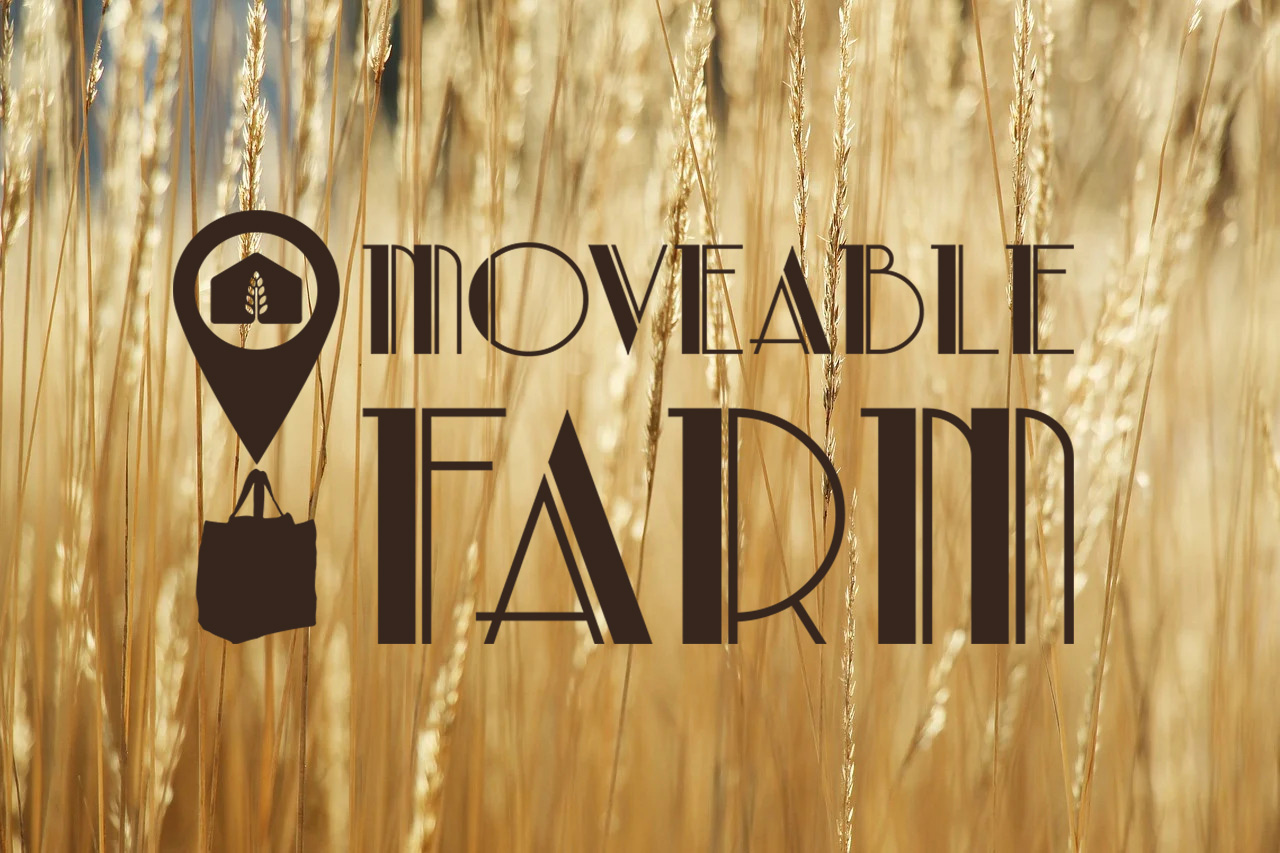
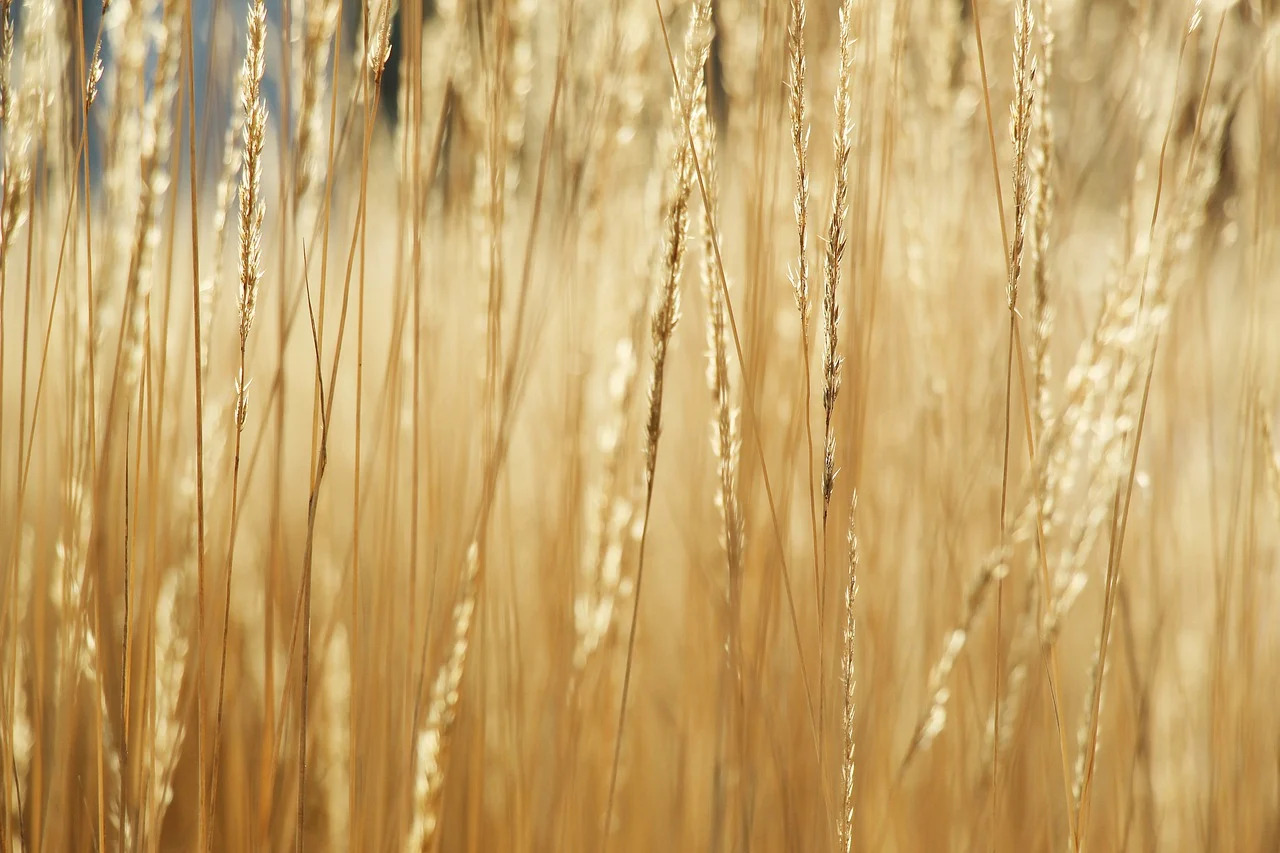
updating case studies

Changed region(s): [[0.125, 0.2438, 0.8438, 0.762], [0.375, 0.4572, 0.8438, 0.762], [0.2812, 0.4572, 0.4062, 0.762]]

diff --git a/src/routes/case-studies/moveable-farm-web-app/+page.svelte b/src/routes/case-studies/moveable-farm-web-app/+page.svelte
@@ -1,6 +1,7 @@
 <script lang="ts">
     import { PUBLIC_DOMAIN } from "$env/static/public";
     import moveableFarmWebAppBanner from "$lib/images/case_studies/moveable_farm_web_app/moveable_farm_banner.jpg";
+    import moveableFarmPrototypes from "$lib/images/case_studies/moveable_farm_web_app/moveable_farm_prototypes.png";
     import { page } from "$app/stores";
     import NextButton from "$lib/components/buttons/NextButton.svelte";
     import PreviousButton from "$lib/components/buttons/PreviousButton.svelte";
@@ -20,6 +21,9 @@
     </h1>
     <div class="case_study_banner">
         <img src={moveableFarmWebAppBanner} alt="moveable farm web app banner" />
+        <div class="moveable_farm_prototypes">
+            <img src={moveableFarmPrototypes} alt="moveable farm desktop and mobile prototypes" />    
+        </div>
         <h2 class="forthcoming">
             forthcoming!
         </h2>
@@ -27,11 +31,28 @@
     <div class="case_study_about">
         <div class="tagline_and_dates">
             <p class="tagline">
-                a web application to buy farm goods directly from farmers
+                a web platform to develop stronger and more sustainable agriculture for better cooking, eating and drinking
             </p>
             <p class="dates">
                 2025 (expected launch date)
             </p>
+            <p>
+                The web platform includes:
+            </p>
+            <ul>
+                <li>
+                    a farm-to-table web application to buy local farm goods
+                </li>
+                <li>
+                    a platform for farmers to socialize, share ideas and organize
+                </li>
+                <li>
+                    artificial intelligence tools for farmers to farm better
+                </li>
+                <li>
+                    artificial intelligence-generated shopping recommendations
+                </li>
+            </ul>
         </div>
         <table class="case_study_table">
             <colgroup>
@@ -60,7 +81,7 @@
                         tools used:
                     </td>
                     <td>
-                        SvelteKit, Twilio SendGrid, Vercel, TomTom, Figma, Canon EOS 70D Digital SLR camera, Adobe Creative Cloud
+                        SvelteKit, Twilio SendGrid, GraphQL, MySQL, Vercel, TomTom, Figma, Canon EOS 70D Digital SLR camera, Adobe Creative Cloud
                     </td>
                 </tr>
                 <tr>
@@ -70,16 +91,28 @@
                     <td>
                         <ul>
                             <li>
-                                geolocate local farmers using user's location
+                                map local farmers using user's location
                             </li>
                             <li>
-                                filter farms based on renewable energy use, sustainable farming practices, fair labor practices, type of farm goods and organic growing practices
-                            </li>
-                            <li>
-                                subscriptions for farmers to list on web app
+                                filter farms based on criteria like renewable energy use, sustainable farming practices, fair labor practices, type of farm goods and organic growing practices
                             </li>
                             <li>
                                 allow users to place orders to buy directly from farms
+                            </li>
+                            <li>
+                                provide subscription-based AI tools for farmers to farm better
+                            </li>
+                            <li>
+                                allow farmers to list farm goods for sale
+                            </li>
+                            <li>
+                                allow farms to register for free to become part of a farmer social network
+                            </li>
+                            <li>
+                                allow shoppers to create accounts to manage orders and shopping preferences
+                            </li>
+                            <li>
+                                use 3D graphics for visual effects when possible
                             </li>
                             <li>
                                 mobile, tablet and desktop
@@ -109,8 +142,16 @@
     .case_study_banner {
         width: 100%;
         max-width: 1920px;
-        padding: 1rem;
+
         position: relative;
+    }
+
+    .moveable_farm_prototypes {
+        position: absolute;
+        top: 0;
+        left: 0;
+        right: 0;
+        bottom: 0;
     }
 
     .forthcoming {

diff --git a/src/lib/components/scrollables/ScrollableCaseStudies.svelte b/src/lib/components/scrollables/ScrollableCaseStudies.svelte
@@ -15,7 +15,7 @@
             id: uuidv4(),
             index: 0,
             label: "moveable farm web app",
-            paragraph: "A web application to buy directly from local farmers.",
+            paragraph: "A web platform to develop stronger and more sustainable agriculture for better cooking, eating and drinking.",
             imageBackgroundSrc: MoveableFarmWebAppBanner,
             imageBackgroundAlt: "moveable farm banner",
             imageForegroundSrc: MoveableFarmDesktopAndMobilePrototypes,

diff --git a/src/routes/case-studies/+page.svelte b/src/routes/case-studies/+page.svelte
@@ -16,7 +16,7 @@
             id: uuidv4(),
             index: 0,
             label: "moveable farm web app",
-            paragraph: "A web application to buy directly from local farmers.",
+            paragraph: "A web platform to develop stronger and more sustainable agriculture for better cooking, eating and drinking.",
             imageBackgroundSrc: MoveableFarmWebAppBanner,
             imageBackgroundAlt: "moveable farm banner",
             imageForegroundSrc: MoveableFarmDesktopAndMobilePrototypes,
